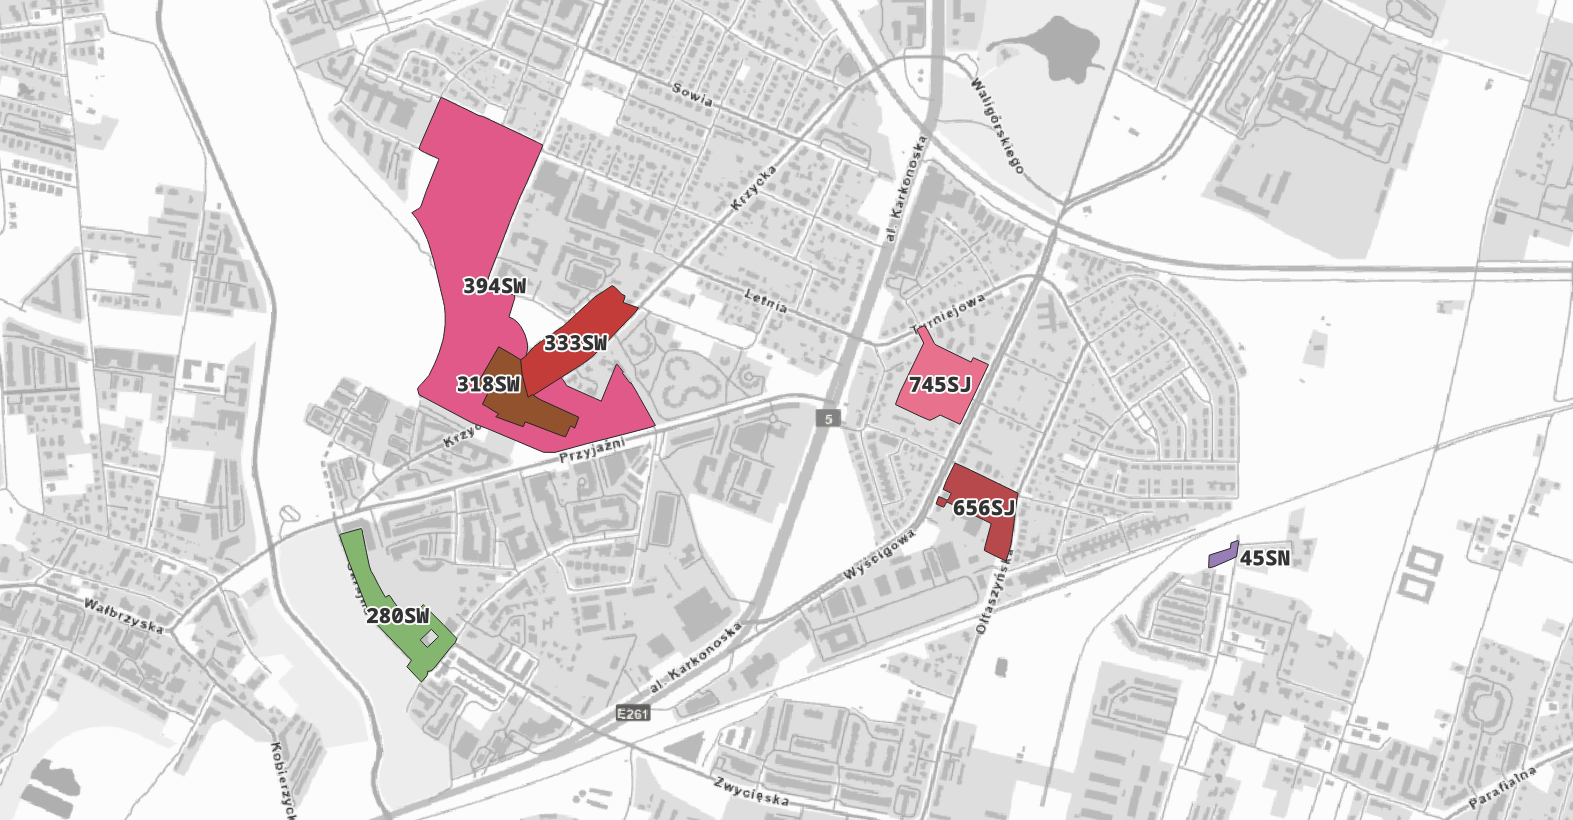
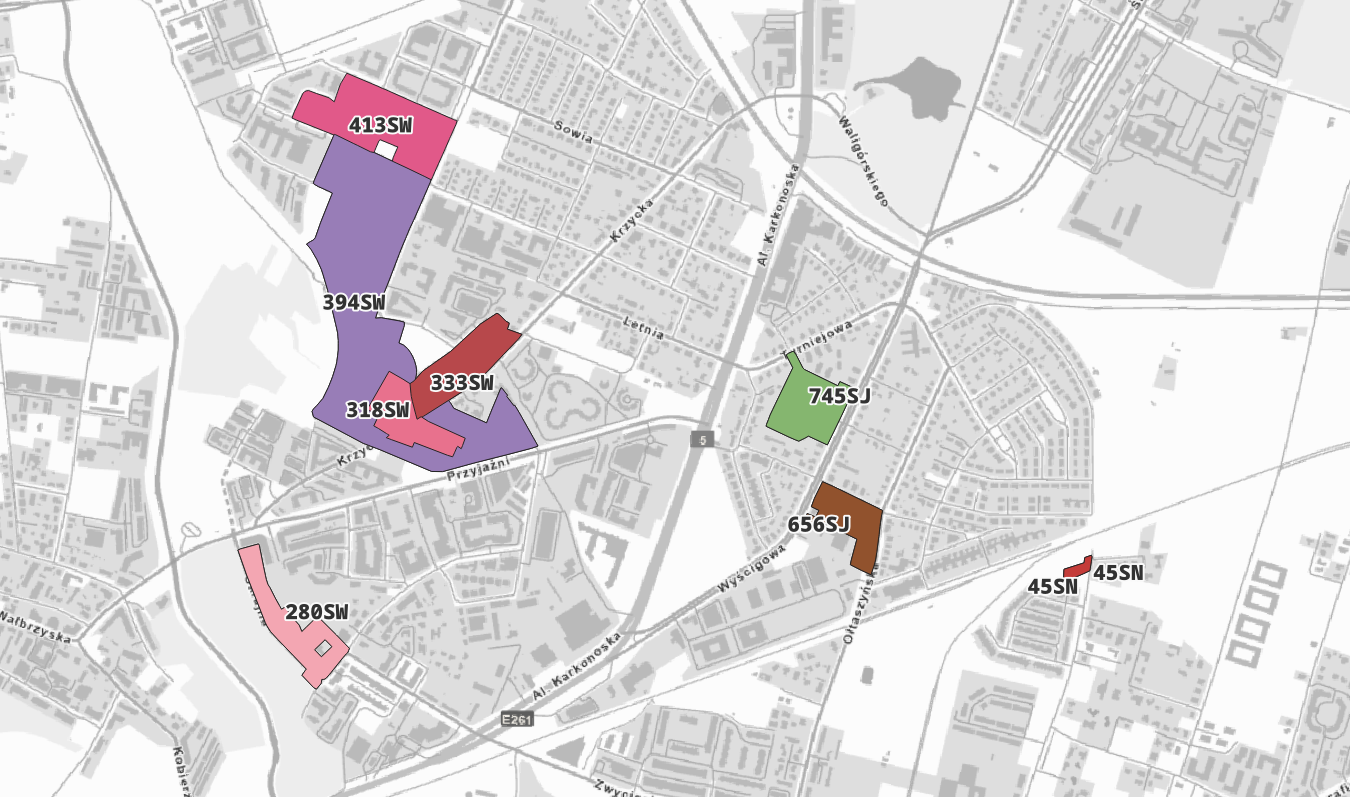
Aktualizacja projektow

diff --git a/docs/polecane-projekty/skala-zabudowy-krzyki-partynice.md b/docs/polecane-projekty/skala-zabudowy-krzyki-partynice.md
@@ -8,29 +8,66 @@ Dla części Osiedla Krzyki-Partynice w projekcie Planu Ogólnego wprowadzono wy
 
 W praktyce dotyczy to takich parametrów jak wysokość zabudowy, intensywność oraz minimalny udział powierzchni biologicznie czynnej. Celem jest zachowanie kameralnej skali zabudowy i ograniczenie wzrostu natężenia ruchu.
 
-Dodatkowo do projektu włączono rejon ul. Skarbowców/Zefirowej/Wietrznej (strefa 413SW). W tym miejscu proponujemy bardziej zachowawcze parametry, tak aby nowa zabudowa odpowiadała temu, co już stoi w okolicy.
+## Co aktualnie przewiduje Projekt Planu Ogólnego
 
-## Co jest postulowane
+### 280SW - ulica Skrajna
 
+Projekt Planu Ogólnego zakłada podniesienie skali zabudowy w tym miejscu do 18m, co jest znaczącym wzrostem w porównaniu do obowiązującego planu miejscowego. Taka zmiana może prowadzić do znacznego zagęszczenia zabudowy i zwiększenia natężenia ruchu w tej części osiedla.
+
+Bez oprotestowania, te niskie budynki mogą zostać zastąpione gęstym osiedlem mieszkaniowym.
+
+<div style="position:relative;width:100%;padding-top:75%;overflow:hidden;">
+<iframe src="https://www.google.com/maps/embed?pb=!1m18!1m12!1m3!1d237.44969947985373!2d16.988310652083527!3d51.06188578663129!2m3!1f17.69845517890378!2f44.94148360538776!3f0!3m2!1i1024!2i768!4f35!3m3!1m2!1s0x470fc3c5fa4e40df%3A0xde3c88bd12218454!2sSkrajna%2C%20Wroc%C5%82aw!5e1!3m2!1sen!2spl!4v1777137990359!5m2!1sen!2spl" style="position:absolute;top:0;left:0;width:100%;height:100%;border:0;" allowfullscreen="" loading="lazy" referrerpolicy="no-referrer-when-downgrade"></iframe>
+</div>
+
+### 333SW, 318SW - ulica Szarugi, Babiego Lata, Krzycka, Mglista
+
+Według proponowego projektu Planu Ogólnego, domki które znajdują się na tym obszarze bedą mogły zostać wyburzone i zastąpione zabudową wielorodzinną do 18m (Szarugi),  lub 12m (Babiego Lata, Krzycka, Mglista). Taka zmiana może prowadzić do znacznego zagęszczenia zabudowy i zwiększenia natężenia ruchu w tej części osiedla
+
+<div style="position:relative;width:100%;padding-top:75%;overflow:hidden;">
+<iframe src="https://www.google.com/maps/embed?pb=!1m18!1m12!1m3!1d1247.882887237447!2d16.994084786369122!3d51.06889818576641!2m3!1f0!2f0!3f0!3m2!1i1024!2i768!4f13.1!3m3!1m2!1s0x470fc3cead26ad3d%3A0xc02c5efcf1958d76!2sSzarugi%2C%2053-020%20Wroc%C5%82aw!5e1!3m2!1sen!2spl!4v1777138413051!5m2!1sen!2spl" width="600" height="450" style="position:absolute;top:0;left:0;width:100%;height:100%;border:0;" allowfullscreen="" loading="lazy" referrerpolicy="no-referrer-when-downgrade"></iframe>
+</div>
+
+### 394SW - ulice Poranna, Róży Wiatrów, Skarbowców, Szarugi, Krzycka
+
+Mieszkańcy tych ulic doskonale wiedza, jak gęsto jest zabudowana ta część osiedl. Proponowany projekt planuje dogęszczenie poprzez zwiększenie maksymalnej wysokości zabudowy oraz zwiększenie maksymalnego udziału powierzchni zabudowy. 
+
+Czy w tym miejscu potrzebne są kolejne budynki wielorodzinne? Czy nie lepiej zachować aktualną skalę zabudowy i ograniczyć presję na infrastrukturę?
+
+<div style="position:relative;width:100%;padding-top:75%;overflow:hidden;">
+<iframe src="https://www.google.com/maps/embed?pb=!3m2!1sen!2spl!4v1777138650192!5m2!1sen!2spl!6m8!1m7!1s0Ac18PFayOBvoyQBHnmJgQ!2m2!1d51.07268683177713!2d16.9926791413886!3f235.8162113366194!4f-2.049960600316666!5f0.7820865974627469" width="600" height="450" style="position:absolute;top:0;left:0;width:100%;height:100%;border:0;" allowfullscreen="" loading="lazy" referrerpolicy="no-referrer-when-downgrade"></iframe>
+</div>
+
+### 413SW - ulice Wieczorna, Południowa, Poranna
+
+Projekt Planu Ogólnego zakłada podniesienie skali zabudowy w tym miejscu do 18m, co jest znaczącym wzrostem w porównaniu do obowiązującego planu miejscowego. Taka zmiana może prowadzić do znacznego zagęszczenia zabudowy i zwiększenia natężenia ruchu w tej części osiedla.
+
+Bez oprotestowania, w tym miejscu mogą powstać budynki wielorodzinne do 5-6 kondygnacji.
+
+<div style="position:relative;width:100%;padding-top:75%;overflow:hidden;">
+<iframe src="https://www.google.com/maps/embed?pb=!4v1777136417387!6m8!1m7!1s4XGhs94Vx3K4bjF218p2lg!2m2!1d51.07392007991545!2d16.99356753952905!3f353.35206421653055!4f10.470999090272201!5f0.4000000000000002" style="position:absolute;top:0;left:0;width:100%;height:100%;border:0;" allowfullscreen="" loading="lazy" referrerpolicy="no-referrer-when-downgrade"></iframe>
+</div>
+
+## O co wnioskować
+
+Jeśli sprzeciwiasz się podniesieniu skali zabudowy w tych miejscach, możesz wnioskować o:
 - utrzymanie parametrów z obowiązujących planów miejscowych na większości wskazanych terenów
-- dla strefy 413SW (ul. Skarbowców/Zefirowa/Wietrzna): maksymalnie 12 m wysokości i 20% powierzchni zabudowy
-- ochrona historycznej tkanki osiedla i jej skali
+- ochronę historycznej tkanki osiedla i jej skali
 - ograniczenie nadmiernego zagęszczenia zabudowy
 
-!!! quote "Uchwała Rady Osiedla Krzyki-Partynice"
-    "Negatywnie opiniuje się dopuszczenie zabudowy o maksymalnej wysokości 18 m w strefie 413SW i 40% udział powierzchni zabudowy (ul. Skarbowców/Zefirowa/Wietrzna); proponuje się ustalić maksymalną wysokość 12 m i 20% udziału powierzchni zabudowy, zgodnie z obecnym zagospodarowaniem."
-
-## Strefy planistyczne
-
-![Ilustracja strefy na Krzykach i Partynicach](../assets/skala-zabudowy-krzyki-partynice-strefa-ilustracja.png){ .border1 }
-
+We wniosku wymień nast. strefy planistyczne:
 ```
-280SW
-318SW
-333SW
-394SW
-413SW
-745SJ
-656SJ
-45SN
+280SW - ulica Skrajna
+318SW, 333SW - ulica Szarugi, Babiego Lata, Krzycka, Mglista
+394SW - ulice Poranna, Róży Wiatrów, Skarbowców, Szarugi, Krzycka
+413SW - ulice Wieczorna, Południowa, Poranna
+45SN - ulica Agrestowa
 ```
+
+
+!!! info "Szybkie składanie wniosku"
+
+    Gotowy wniosek możesz szybko wygenerować w [generatorze wniosków](https://teraz.wroclaw.pl/). Na liście projektów należy wybrać **Zachowanie skali zabudowy na Krzykach i Partynicach**.
+
+![Ilustracja strefy na Krzykach i Partynicach](../assets/skala-zabudowy-krzyki-partynice-strefa-ilustracja-v2.png){ .border1 }
+

diff --git a/docs/polecane-projekty/raclawicka-tramwaj.md b/docs/polecane-projekty/raclawicka-tramwaj.md
@@ -19,7 +19,7 @@ Poniższa wizualizacja przedstawia przykładowy dojazd do ul. Legnickiej z ul. R
 ![Wizualizacja dojazdu do ul. Legnickiej z ul. Racławickiej](../assets/dojazd-do-magnolii.png){ .border1 }
 
 
-## Jak wnioskować o zachowanie parku?
+## Jak wnioskować o wybudowanie linii?
 
 Złóż w czesci [7.2. uwagi](../jak-wypelnic.md#krok-2-wypenij-formularz) do niżej wymienionych działek i wnioskuj o objęcie działek Strefą Komunikacyjną (SK) z przeznaczeniem pod linię tramwajową. 
 
